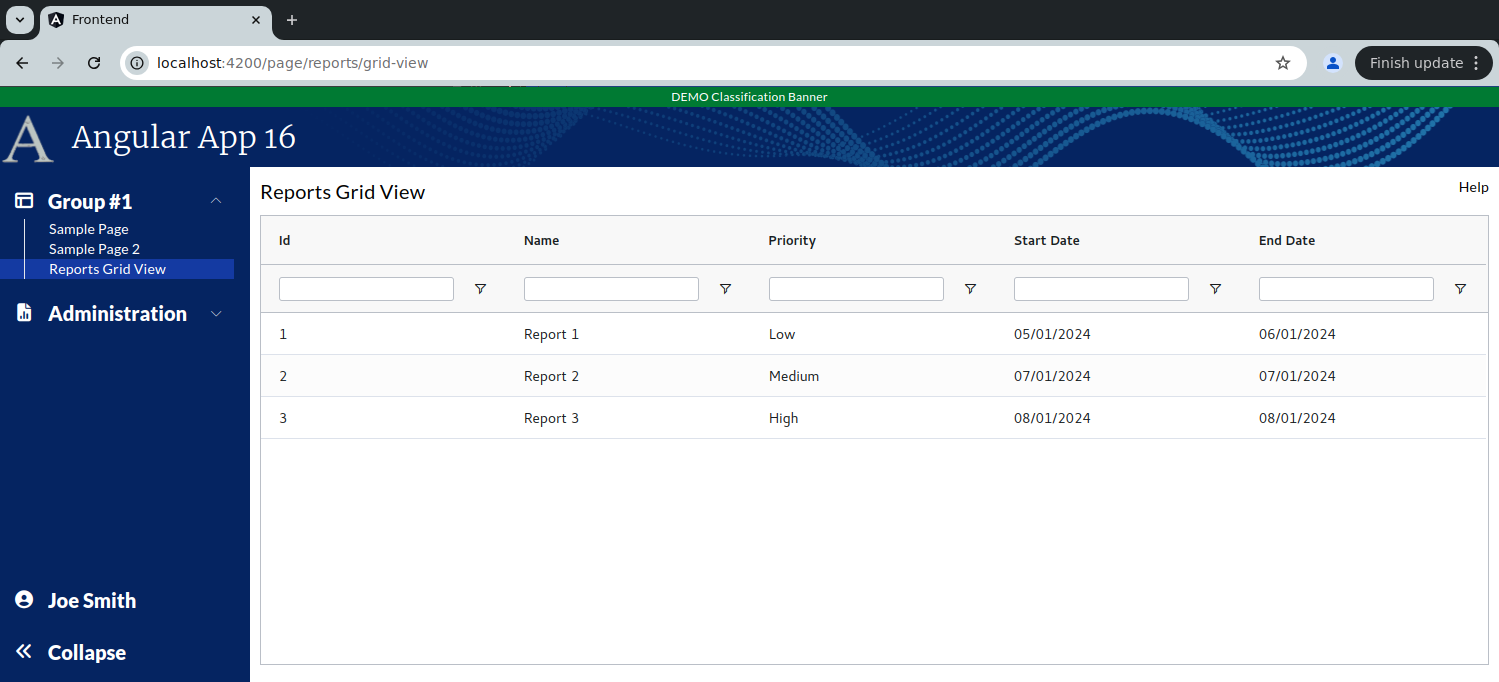
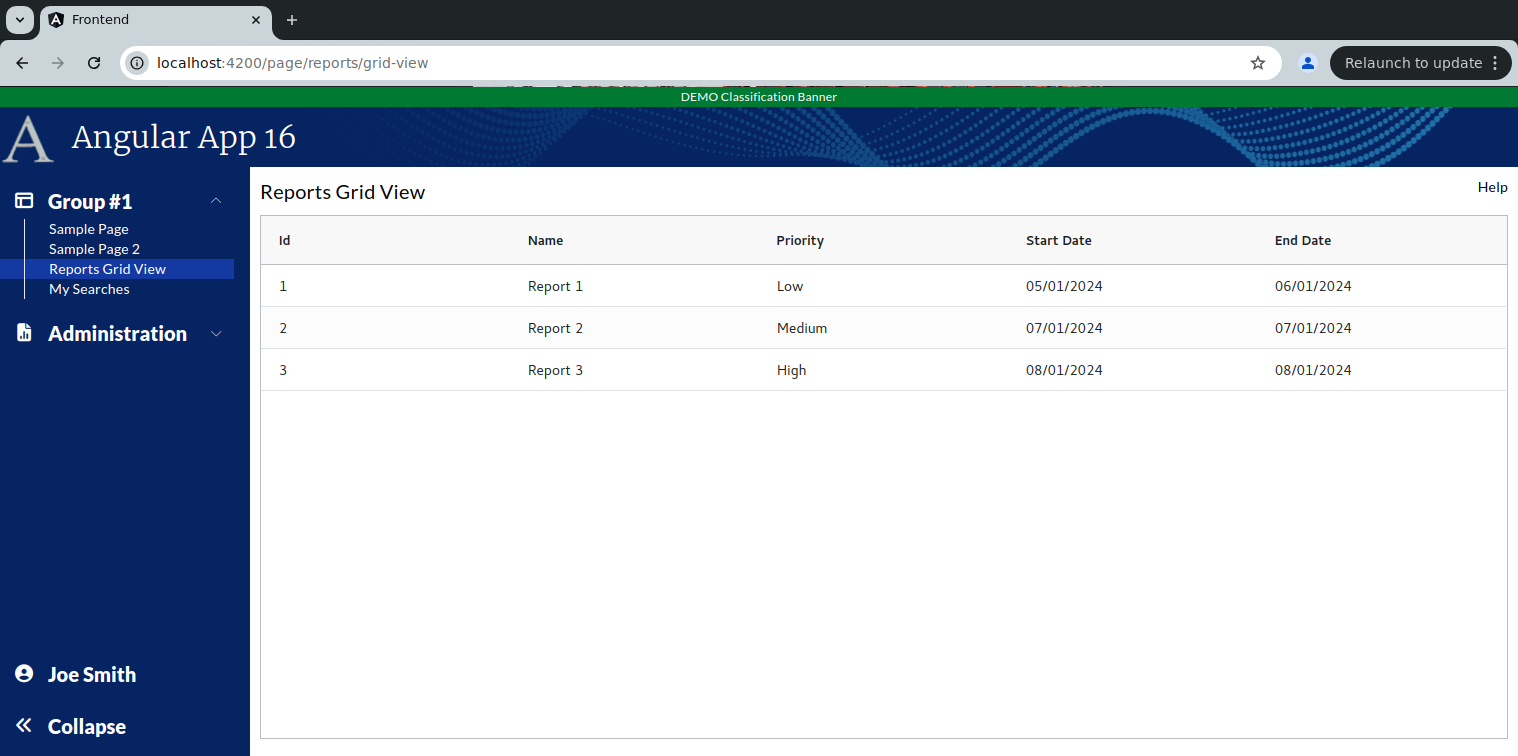
Update

diff --git a/learnAngular/lessons_Angular16/exercises/exercise11b.client-grid-load-using-service.question.md b/learnAngular/lessons_Angular16/exercises/exercise11b.client-grid-load-using-service.question.md
@@ -75,7 +75,7 @@ Part 2 / Configure the gridOptions, columnDefs, defaultColumnDefs, and rowData
                 
  3. Add a public class variable:  defaultColumnDef
     -- The type is ColDef
-    -- Initialize it so that flex = 1, sortable = true, filter = true, floatingFilter = true
+    -- Initialize it so that flex = 1, sortable = true
 
      
                 

diff --git a/learnAngular/lessons_Angular16/exercises/exercise11a.client-grid-add-grid-page.question.md b/learnAngular/lessons_Angular16/exercises/exercise11a.client-grid-add-grid-page.question.md
@@ -69,7 +69,7 @@ Exercise
                 
  6. Add a public class variable:  defaultColumnDef
     -- The type is ColDef
-    -- Initialize it so that flex = 1, sortable = true, filter = true, floatingFilter = true
+    -- Initialize it so that flex = 1, sortable = true
 
 
  

diff --git a/learnAngular/lessons_Angular16/exercises/exercise11b.client-grid-load-using-service.answers.md b/learnAngular/lessons_Angular16/exercises/exercise11b.client-grid-load-using-service.answers.md
@@ -363,9 +363,7 @@ Part 4 / Configure the grid to load it's rowData with the fake service
     
       public defaultColumnDef: ColDef = {
         flex: 1,
-        sortable: true,
-        filter: true,
-        floatingFilter: true
+        sortable: true
       }
     
     

diff --git a/learnAngular/lessons_Angular16/exercises/exercise11a.client-grid-add-grid-page.answers.md b/learnAngular/lessons_Angular16/exercises/exercise11a.client-grid-add-grid-page.answers.md
@@ -293,9 +293,7 @@ Exercise
     
         public defaultColumnDef: ColDef = {
           flex: 1,
-          sortable: true,
-          filter: true,
-          floatingFilter: true
+          sortable: true
         }
     
     
